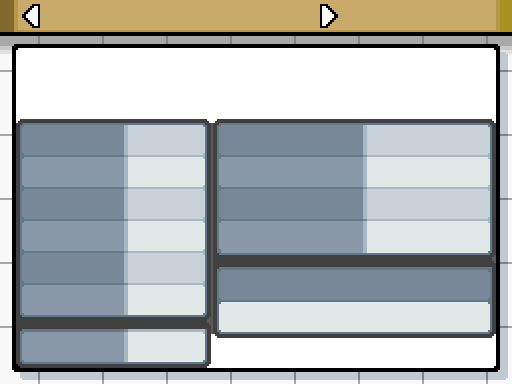
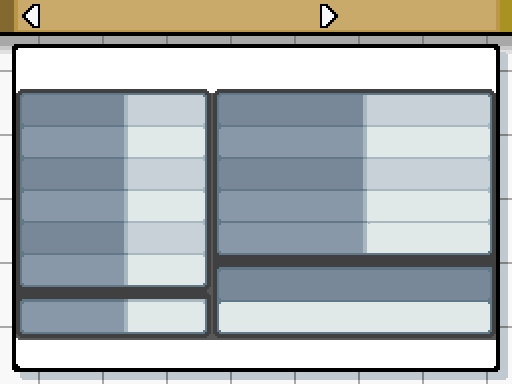
dex stats screen lists the two EHPs, can filter and sort by either of the two EHPs

diff --git a/Plugins/Pokedex/PokemonPokedex_Scene.rb b/Plugins/Pokedex/PokemonPokedex_Scene.rb
@@ -1017,14 +1017,14 @@ class PokemonPokedex_Scene
 	
 	def searchByStatComparison()
 		statSelection = pbMessage("Which stat?",[_INTL("HP"),_INTL("Attack"),_INTL("Defense"),
-			_INTL("Sp. Atk"),_INTL("Sp. Def"),_INTL("Speed"),_INTL("Total"),_INTL("Cancel")],8)
-	    return if statSelection == 7 
+			_INTL("Sp. Atk"),_INTL("Sp. Def"),_INTL("Speed"),_INTL("Total"),_INTL("Phys. EHP"),_INTL("Spec. EHP"),_INTL("Cancel")],10)
+	    return if statSelection == 9
 		comparisonSelection = pbMessage("Which comparison?",[_INTL("Equal to number"),
 			_INTL("Greater than number"),_INTL("Less than number"),_INTL("Equal to stat"),
 			_INTL("Greater than stat"),_INTL("Less than stat"),_INTL("Cancel")],7)
 		return if comparisonSelection == 6 
 		
-		stats = [:HP,:ATTACK,:DEFENSE,:SPECIAL_ATTACK,:SPECIAL_DEFENSE,:SPEED]
+		stats = [:HP,:ATTACK,:DEFENSE,:SPECIAL_ATTACK,:SPECIAL_DEFENSE,:SPEED,:PEHP,:SEPH]
 		if comparisonSelection <= 2
 			statTextInput = pbEnterText("Input value...", 0, 3)
 			if statTextInput && statTextInput!=""
@@ -1038,8 +1038,8 @@ class PokemonPokedex_Scene
 			end
 		elsif
 			statSelectionComparison = pbMessage("Compare to which stat?",[_INTL("HP"),_INTL("Attack"),_INTL("Defense"),
-			_INTL("Sp. Atk"),_INTL("Sp. Def"),_INTL("Speed"),_INTL("Cancel")],7)
-			return if statSelectionComparison == 6
+			_INTL("Sp. Atk"),_INTL("Sp. Def"),_INTL("Speed"),_INTL("Phys. EHP"),_INTL("Spec. EHP"),_INTL("Cancel")],9)
+			return if statSelectionComparison == 8
 			
 			comparitorB = stats[statSelectionComparison]
 		end
@@ -1055,16 +1055,23 @@ class PokemonPokedex_Scene
 			statToCompareA = 0
 			case statSelection
 			when 0..5
-				statToCompareA = species_data.base_stats[comparitorA]
+				statToCompareA = species_data.calced_stats[comparitorA]
 			when 6
 				species_data.base_stats.each do |s|
 					statToCompareA += s[1]
 				end
+			when 7
+				statToCompareA = species_data.physical_ehp	
+			when 8
+				statToCompareA = species_data.special_ehp
 			end
 			
 			statToCompareB = 0
 			if comparitorB.is_a?(Symbol)
-				statToCompareB = species_data.base_stats[comparitorB]
+				calced_stats = species_data.base_stats
+				calced_stats[:PEHP] = species_data.physical_ehp
+				calced_stats[:SEHP] = species_data.special_ehp
+				statToCompareB = calced_stats[comparitorB]
 			else
 				statToCompareB = comparitorB
 			end
@@ -1424,8 +1431,8 @@ class PokemonPokedex_Scene
 	
 	def sortByStat()
 		statSelection = pbMessage("Which stat?",[_INTL("HP"),_INTL("Attack"),_INTL("Defense"),
-			_INTL("Sp. Atk"),_INTL("Sp. Def"),_INTL("Speed"),_INTL("Total"),_INTL("Cancel")],8)
-	    return if statSelection == 7
+			_INTL("Sp. Atk"),_INTL("Sp. Def"),_INTL("Speed"),_INTL("Total"),_INTL("Phys. EHP"),_INTL("Spec. EHP"),_INTL("Cancel")],10)
+	    return if statSelection == 9
 		sortDirection = pbMessage("Which direction?",[_INTL("Descending"),_INTL("Ascending"),_INTL("Cancel")],3)
 		return if sortDirection == 2
 		dexlist = @dexlist
@@ -1449,6 +1456,10 @@ class PokemonPokedex_Scene
 				speciesData.base_stats.each do |s|
 					value += s[1]
 				end
+			when 7
+				value = speciesData.physical_ehp
+			when 8
+				value = speciesData.special_ehp
 			end
 			
 			value *= -1 if sortDirection == 0

diff --git a/Plugins/Pokedex/PokemonPokedexInfo_Scene.rb b/Plugins/Pokedex/PokemonPokedexInfo_Scene.rb
@@ -327,28 +327,29 @@ class PokemonPokedexInfo_Scene
     base = Color.new(64,64,64)
     shadow = Color.new(176,176,176)
 	baseStatNames = ["HP","Attack","Defense","Sp. Atk","Sp. Def", "Speed"]
-    otherStatNames = ["Gender Rate", "Growth Rate", "Catch Dif.", "Exp. Grant"]
+    otherStatNames = ["Gender Rate", "Growth Rate", "Catch Dif.", "Exp. Grant", "PEHP / SEHP"]
     for i in @available
       if i[2]==@form
         formname = i[0]
-        drawTextEx(overlay,30,54,450,1,_INTL("Stats of {1}",@title),base,shadow)
         fSpecies = GameData::Species.get_species_form(@species,i[2])
         
+		yBase = 100
+
         #Base stats
-        drawTextEx(overlay,30,90,450,1,"Base Stats",base,shadow)
+        drawTextEx(overlay,30,yBase-40,450,1,"Base Stats",base,shadow)
         baseStats = fSpecies.base_stats
         total = 0
         baseStats.each_with_index do |stat, index|
           next if !stat
           total += stat[1]
           # Draw stat line
-          drawTextEx(overlay,30,130+32*index,450,1,baseStatNames[index],base,shadow)
-          drawTextEx(overlay,136,130+32*index,450,1,stat[1].to_s,base,shadow)
+          drawTextEx(overlay,30,yBase+32*index,450,1,baseStatNames[index],base,shadow)
+          drawTextEx(overlay,136,yBase+32*index,450,1,stat[1].to_s,base,shadow)
         end
-        drawTextEx(overlay,30,130+32*6+14,450,1,"Total",base,shadow)
-        drawTextEx(overlay,136,130+32*6+14,450,1,total.to_s,base,shadow)
+        drawTextEx(overlay,30,yBase+32*6+14,450,1,"Total",base,shadow)
+        drawTextEx(overlay,136,yBase+32*6+14,450,1,total.to_s,base,shadow)
         # Other stats
-        drawTextEx(overlay,250,90,450,1,"Other Stats",base,shadow)
+        drawTextEx(overlay,250,yBase-40,450,1,"Other Stats",base,shadow)
         otherStats = []
         genderRate = fSpecies.gender_ratio
         genderRateString = genderRateToString(genderRate)
@@ -389,12 +390,16 @@ class PokemonPokedexInfo_Scene
         end
 
         otherStats.push(fSpecies.base_exp)
+
+		physEHP = fSpecies.physical_ehp
+		specEHP = fSpecies.special_ehp
+		otherStats.push(physEHP.to_s + " / " + specEHP.to_s)
         
         otherStats.each_with_index do |stat, index|
           next if !stat
           # Draw stat line
-          drawTextEx(overlay,230,130+32*index,450,1,otherStatNames[index],base,shadow)
-          drawTextEx(overlay,378,130+32*index,450,1,stat.to_s,base,shadow)
+          drawTextEx(overlay,230,yBase+32*index,450,1,otherStatNames[index],base,shadow)
+          drawTextEx(overlay,378,yBase+32*index,450,1,stat.to_s,base,shadow)
         end
 		items = []
 		items.push(fSpecies.wild_item_common) if fSpecies.wild_item_common
@@ -412,10 +417,9 @@ class PokemonPokedexInfo_Scene
 		else
 			itemsString = "None"
 		end
-		drawTextEx(overlay,230,274,450,1,"Wild Items",base,shadow)
-		drawTextEx(overlay,230,306,450,1,itemsString,base,shadow)
-
-      end
+		drawTextEx(overlay,230,yBase+174,450,1,"Wild Items",base,shadow)
+		drawTextEx(overlay,230,yBase+203,450,1,itemsString,base,shadow)
+	  end
     end
   end
   

diff --git a/Plugins/Pokedex/Other.rb b/Plugins/Pokedex/Other.rb
@@ -104,11 +104,19 @@ module GameData
 		def get_prevolutions(exclude_invalid = false)
 		  ret = []
 		  @evolutions.each do |evo|
-			next if !evo[3]   # Is the prevolution
+			next if !evo[3]   # Is an evolution
 			next if evo[1] == :None && exclude_invalid
 			ret.push([evo[0], evo[1], evo[2]])   # [Species, method, parameter]
 		  end
 		  return ret
+		end
+
+		def physical_ehp
+			return [(base_stats[:HP] * base_stats[:DEFENSE] / 100),1].max
+		end
+
+		def special_ehp
+			return [(base_stats[:HP] * base_stats[:SPECIAL_DEFENSE] / 100),1].max
 		end
 	end
 end
